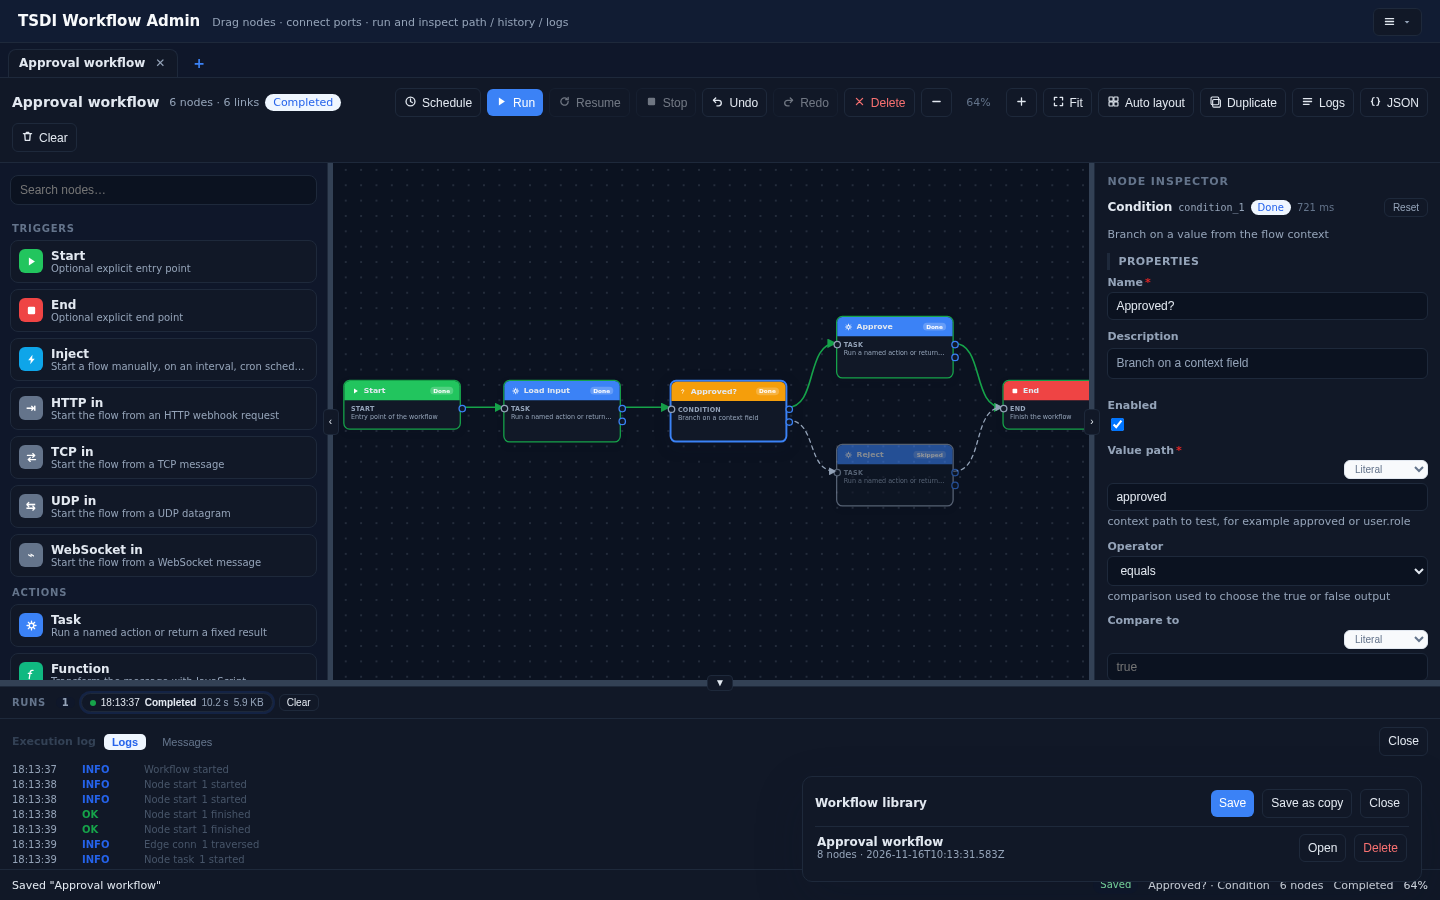
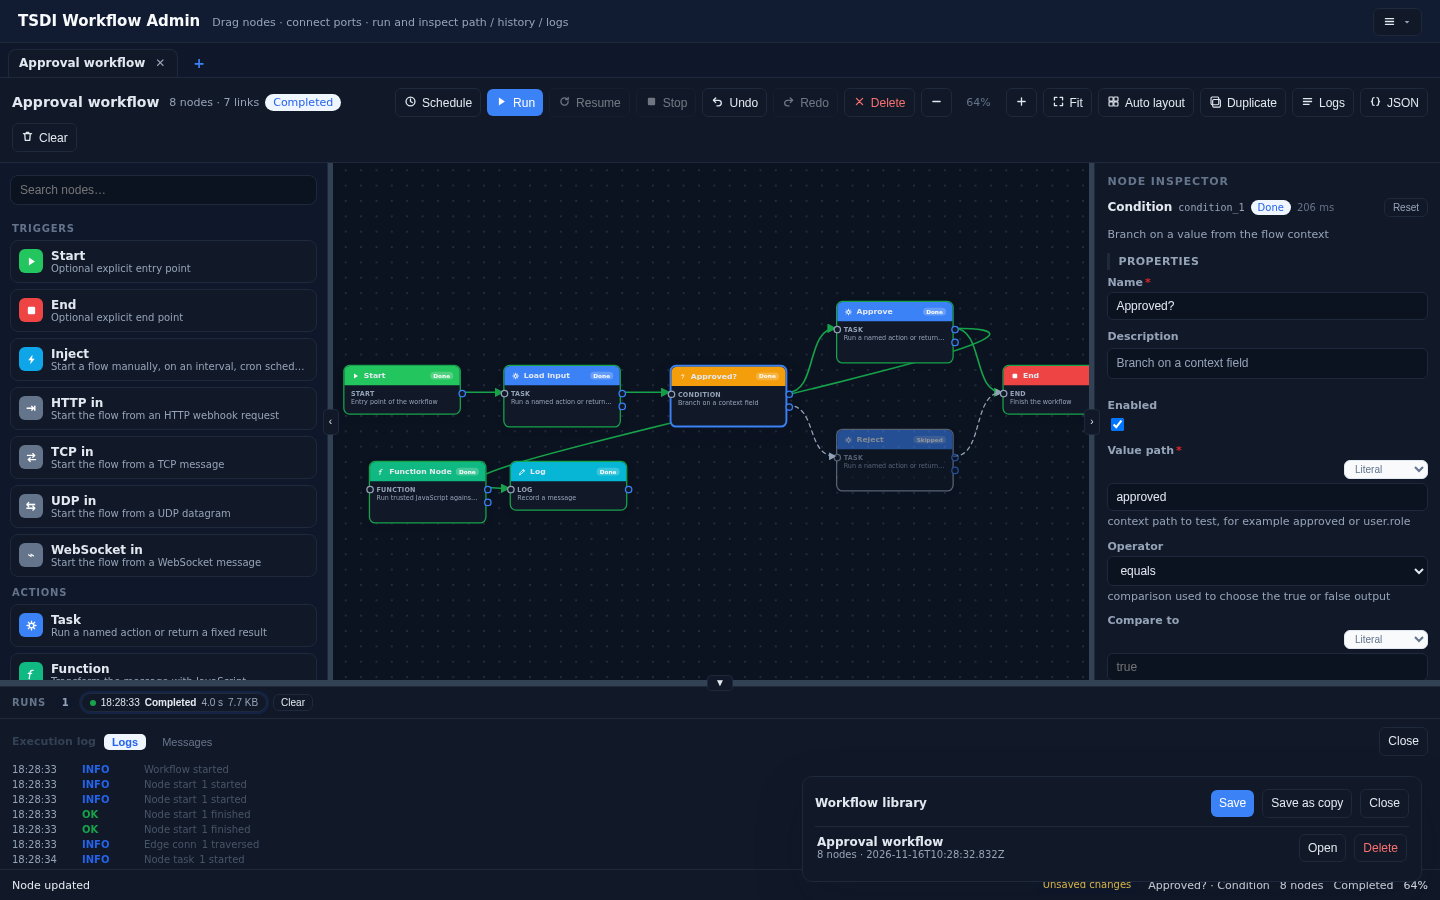
feat(activities): insert quick-added nodes onto wires
Double-clicking a wire opens quick-add in insert mode and splices the selected node between the edge endpoints.

diff --git a/packages/activities/src/visual/components/workflow-designer-preview.component.ts b/packages/activities/src/visual/components/workflow-designer-preview.component.ts
@@ -213,6 +213,7 @@ export class WorkflowDesignerPreviewComponent implements OnDestroy, AfterViewIni
     showQuickAdd = false;
     quickAddQuery = '';
     quickAddIndex = 0;
+    quickAddSpliceId = '';
     showGroupSettings = false;
     groupSettingsId = '';
     groupSettingsName = '';
@@ -466,6 +467,7 @@ export class WorkflowDesignerPreviewComponent implements OnDestroy, AfterViewIni
         self.showQuickAdd = true;
         self.quickAddQuery = '';
         self.quickAddIndex = 0;
+        self.quickAddSpliceId = '';
         setTimeout(() => {
             const document = (globalThis as { document?: Document }).document;
             (document?.querySelector?.('.workflow-quick-add-input') as any)?.focus?.();
@@ -477,6 +479,7 @@ export class WorkflowDesignerPreviewComponent implements OnDestroy, AfterViewIni
         self.showQuickAdd = false;
         self.quickAddQuery = '';
         self.quickAddIndex = 0;
+        self.quickAddSpliceId = '';
     };
 
     readonly quickAddInput = (event: any): void => {
@@ -527,15 +530,29 @@ export class WorkflowDesignerPreviewComponent implements OnDestroy, AfterViewIni
                 outputs: definition.outputs || []
             } as any)
             : { width: 184, height: 64 };
-        const rect = self.canvasRect();
-        const zoom = self.designer.zoom || 1;
-        const pan = self.designer.pan || { x: 0, y: 0 };
-        const centerX = rect ? (rect.width / zoom) / 2 - pan.x / zoom : 400;
-        const centerY = rect ? (rect.height / zoom) / 2 - pan.y / zoom : 240;
-        self.designer.addNode(type as any, {
+        const spliceId = self.quickAddSpliceId;
+        const midpoint = spliceId ? self.connectionMidpoint(spliceId) : undefined;
+        let centerX: number;
+        let centerY: number;
+        if (midpoint) {
+            centerX = midpoint.x;
+            centerY = midpoint.y;
+        } else {
+            const rect = self.canvasRect();
+            const zoom = self.designer.zoom || 1;
+            const pan = self.designer.pan || { x: 0, y: 0 };
+            centerX = rect ? (rect.width / zoom) / 2 - pan.x / zoom : 400;
+            centerY = rect ? (rect.height / zoom) / 2 - pan.y / zoom : 240;
+        }
+        const position = {
             x: Math.round(centerX - frame.width / 2),
             y: Math.round(centerY - frame.height / 2)
-        });
+        };
+        if (spliceId) {
+            self.designer.spliceNode(type as any, position, spliceId);
+        } else {
+            self.designer.addNode(type as any, position);
+        }
         self.closeQuickAdd();
         self.notifyChange();
     };
@@ -1314,30 +1331,50 @@ export class WorkflowDesignerPreviewComponent implements OnDestroy, AfterViewIni
         return { width: rect.width, height: rect.height };
     }
 
+    private connectionEnds(connection: { sourceNodeId: string; sourcePort: string; targetNodeId: string; targetPort: string }) {
+        const source = this.designer.nodes.find(node => node.id === connection.sourceNodeId);
+        const target = this.designer.nodes.find(node => node.id === connection.targetNodeId);
+        if (!source || !target) {
+            return undefined;
+        }
+        const sourceFrame = workflowNodeFrame(source);
+        const outputIndex = Math.max(0, (source.outputs || [])
+            .findIndex(port => port.id === connection.sourcePort));
+        const inputIndex = Math.max(0, (target.inputs || [])
+            .findIndex(port => port.id === connection.targetPort));
+        return {
+            start: {
+                x: source.position.x + sourceFrame.width,
+                y: source.position.y + WORKFLOW_PORT_START + outputIndex * WORKFLOW_PORT_SPACING - 5
+            },
+            end: {
+                x: target.position.x,
+                y: target.position.y + WORKFLOW_PORT_START + inputIndex * WORKFLOW_PORT_SPACING - 5
+            }
+        };
+    }
+
+    private connectionMidpoint(connectionId: string): { x: number; y: number } | undefined {
+        const connection = this.designer.connections.find(item => item.id === connectionId);
+        if (!connection) {
+            return undefined;
+        }
+        const ends = this.connectionEnds(connection);
+        return ends
+            ? { x: (ends.start.x + ends.end.x) / 2, y: (ends.start.y + ends.end.y) / 2 }
+            : undefined;
+    }
+
     /** Nearest edge under a world point, used to insert nodes on wires. */
     private connectionAt(point: { x: number; y: number }, maxDistance: number) {
         let nearest: { id: string } | undefined;
         let nearestDistance = maxDistance;
         for (const connection of this.designer.connections) {
-            const source = this.designer.nodes.find(node => node.id === connection.sourceNodeId);
-            const target = this.designer.nodes.find(node => node.id === connection.targetNodeId);
-            if (!source || !target) {
+            const ends = this.connectionEnds(connection);
+            if (!ends) {
                 continue;
             }
-            const sourceFrame = workflowNodeFrame(source);
-            const outputIndex = Math.max(0, (source.outputs || [])
-                .findIndex(port => port.id === connection.sourcePort));
-            const inputIndex = Math.max(0, (target.inputs || [])
-                .findIndex(port => port.id === connection.targetPort));
-            const start = {
-                x: source.position.x + sourceFrame.width,
-                y: source.position.y + WORKFLOW_PORT_START + outputIndex * WORKFLOW_PORT_SPACING - 5
-            };
-            const end = {
-                x: target.position.x,
-                y: target.position.y + WORKFLOW_PORT_START + inputIndex * WORKFLOW_PORT_SPACING - 5
-            };
-            const distance = this.pointToSegment(point, start, end);
+            const distance = this.pointToSegment(point, ends.start, ends.end);
             if (distance <= nearestDistance) {
                 nearestDistance = distance;
                 nearest = connection;
@@ -1622,6 +1659,13 @@ export class WorkflowDesignerPreviewComponent implements OnDestroy, AfterViewIni
                 }
                 break;
             }
+            case 'edge-dblclick':
+                if (payload.connectionId) {
+                    self.quickAddSpliceId = payload.connectionId;
+                    self.openQuickAdd();
+                    self.quickAddSpliceId = payload.connectionId;
+                }
+                break;
             case 'edge-click':
                 if (payload.connectionId) {
                     designer.selectConnection(payload.connectionId);

diff --git a/packages/activities/test/workflow-designer-ui.spec.ts b/packages/activities/test/workflow-designer-ui.spec.ts
@@ -451,6 +451,37 @@ describe('Workflow Designer UI', () => {
         expect(root.querySelector('.workflow-node[data-node-id="task_1"]')?.classList.contains('is-disabled')).toBe(false);
     });
 
+    it('inserts a quick-added node onto an existing wire', async () => {
+        const edge = root.querySelector('.workflow-edge-hit[data-edge-id="conn_2"]') as any;
+        edge.dispatchEvent(new (doc.defaultView as any).MouseEvent('dblclick', {
+            bubbles: true, cancelable: true
+        }));
+        await flush();
+        expect(root.querySelector('.workflow-quick-add')).toBeTruthy();
+
+        const input = root.querySelector('.workflow-quick-add-input') as any;
+        input.value = 'log';
+        input.dispatchEvent(new (doc.defaultView as any).Event('input', { bubbles: true }));
+        await flush();
+        input.dispatchEvent(new (doc.defaultView as any).KeyboardEvent('keydown', {
+            key: 'Enter', bubbles: true
+        }));
+        await flush();
+
+        const nodes = ref.instance.designer.nodes;
+        const connections = ref.instance.designer.connections;
+        const log = nodes.find(node => node.type === 'log')!;
+        expect(nodes.length).toBe(7);
+        expect(connections.length).toBe(7);
+        expect(connections.some(item => item.id === 'conn_2')).toBe(false);
+        expect(connections.some(item =>
+            item.sourceNodeId === 'task_1' && item.targetNodeId === log.id
+        )).toBe(true);
+        expect(connections.some(item =>
+            item.sourceNodeId === log.id && item.targetNodeId === 'condition_1'
+        )).toBe(true);
+    });
+
     it('quick-adds a node through the search overlay', async () => {
         const canvas = root.querySelector('.workflow-canvas') as any;
         canvas.dispatchEvent(new (doc.defaultView as any).KeyboardEvent('keydown', {

diff --git a/packages/activities/src/visual/components/workflow-canvas.ts b/packages/activities/src/visual/components/workflow-canvas.ts
@@ -21,6 +21,7 @@ export type WorkflowCanvasPointerType =
     | 'box-select-move'
     | 'box-select'
     | 'edge-click'
+    | 'edge-dblclick'
     | 'port-down'
     | 'port-up'
     | 'drop'
@@ -105,7 +106,8 @@ const EMPTY_CANVAS: WorkflowCanvasModel = {
                 <path v-for="edge in model.edges" v-bind="edge.attrs"></path>
                 <path v-for="edge in model.edges" v-bind="edge.hitAttrs"
                       @mousedown="edgeDown($event)"
-                      @click="edgeClick($event, edge)"></path>
+                      @click="edgeClick($event, edge)"
+                      @dblclick="edgeDouble($event, edge)"></path>
                 <text v-for="edge in model.edges" v-if="edge.label" v-bind="edge.labelAttrs">{{edge.label}}</text>
                 <g v-if="model.draft">
                     <path v-bind="model.draft ? model.draft.attrs : {}"></path>
@@ -345,6 +347,12 @@ export class WorkflowCanvasComponent implements AfterViewInit {
     edgeClick(event: any, edge: { id: string }): void {
         this.stop(event);
         this.emit({ type: 'edge-click', event, connectionId: edge.id });
+    }
+
+    edgeDouble(event: any, edge: { id: string }): void {
+        this.stop(event);
+        event?.preventDefault?.();
+        this.emit({ type: 'edge-dblclick', event, connectionId: edge.id });
     }
 
     groupDown(event: any, group: { id: string }): void {

diff --git a/packages/activities/README.md b/packages/activities/README.md
@@ -567,7 +567,8 @@ Features:
   persisted open-tab set on startup,
 - palette to drag generic node components onto the canvas (or click to add);
   dropping a component onto an existing wire splices it between the two
-  endpoints as one undoable edit,
+  endpoints as one undoable edit, and double-clicking a wire opens quick-add in
+  insert mode,
   `Menu → Plugins` (when the host provides a plugin manager) lists bundled and
   installed plugins and installs/uninstalls them without reloading the designer,
 - theme switching: light / dark / solarized / high-contrast from the application
